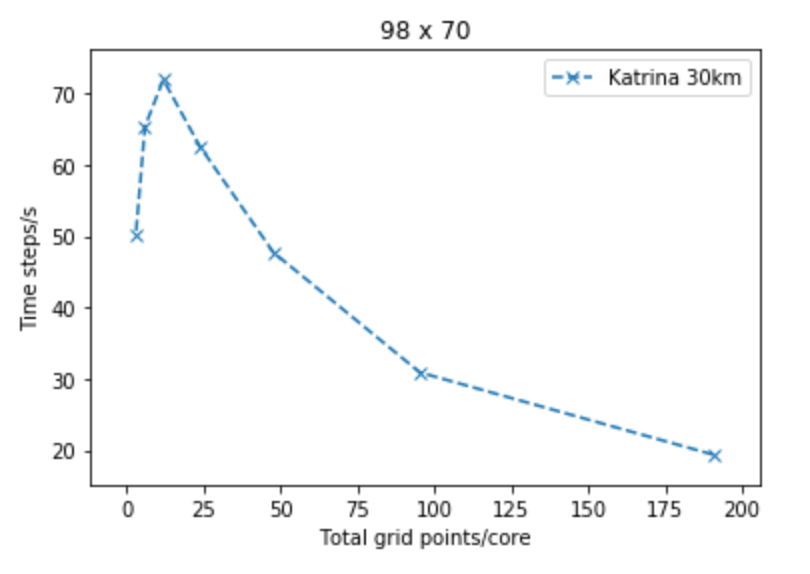
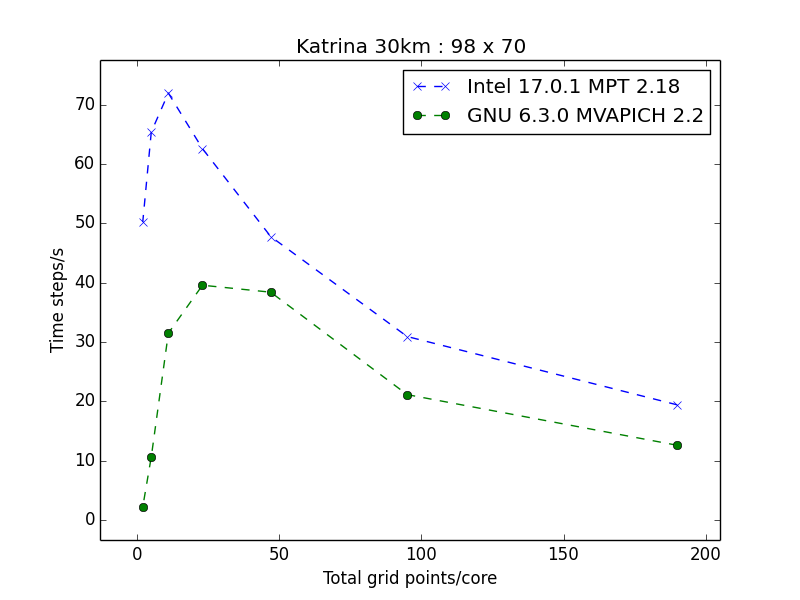
updated katrina results

diff --git a/results/graphs.py b/results/graphs.py
@@ -2,41 +2,59 @@ from matplotlib import pyplot as plt
 
 
 avg_sec_30_intel = [0.0515935, 0.0323609,0.020941,0.0159831,0.0139029,0.0152944,0.0199186]
-ncpus_30_intel = [ 36, 72, 144, 288, 576, 1152,2304 ]
+ncpus_30_intel = [ 36, 72, 144, 288, 576, 1152, 2304 ]
 
-points_intel=98*70
+avg_sec_1_gnu = [ 1.11442,0.0622363,0.143558,0.0781376,0.2634571]
+ncpus_1_gnu = [  72, 144, 576, 1152,2304 ]
+
+avg_sec_1_intel = [1.43894, 0.366497,0.155412,0.0926461,0.0501186]
+ncpus_1_intel = [  36, 144, 288, 576, 1152 ]
 
 avg_sec_30_gnu = [0.0795511,0.0473708,0.0260591,0.0252874,0.0317881,0.0941324,0.457513]
 ncpus_30_gnu   = [ 36, 72, 144, 288, 576, 1152,2304 ]
-points_gnu=98*70
+
+points_30=98*70
+points_1=512*512
 
 avg_step_30_intel = [1/k for k in avg_sec_30_intel]
 avg_step_30_gnu = [1/k for k in avg_sec_30_gnu]
-
-x_30_intel = []
-x_30_gnu=[]
-
-for i,k in enumerate(ncpus_30_intel):
-    x_30_intel.append(points_intel/k)
-for i,k in enumerate(ncpus_30_gnu):
-    x_30_gnu.append(points_gnu/k)
-
-plt.margins(0.08)
-plt.ylabel('Time steps/s')
-plt.xlabel('Total grid points/core')
-plt.title('Katrina 30km : 98 x 70')
-plt.plot(x_30_intel,avg_step_30_intel,'--x',label='Intel MPT')
-plt.plot(x_30_gnu,avg_step_30_gnu,'--o',label='GNU MVAPICH')
-plt.legend(loc='best')
-plt.savefig('katrina30km_cmp.png')
+avg_step_1_gnu = [1/k for k in avg_sec_1_gnu]
+avg_step_1_intel = [1/k for k in avg_sec_1_intel]
 
 
-plt.yscale('log')
-plt.xscale('log')
-plt.ylabel('Time steps/s')
-plt.xlabel('Total grid points/core')
-plt.title('Katrina 30km : 98 x 70')
-plt.plot(x_30_intel,avg_step_30_intel,'--x',label='Intel MPT')
-plt.plot(x_30_gnu,avg_step_30_gnu,'--o',label='GNU MVAPICH')
-plt.legend(loc='best')
-plt.savefig('katrina30km_cmp_log.png')
+def ppc(cpus,points):
+    arr = []
+    for i,k in enumerate(cpus):
+        arr.append(points/k)
+    return arr
+
+x_30_gnu = ppc(ncpus_30_gnu,points_30)
+x_30_intel = ppc(ncpus_30_intel,points_30)
+x_1_gnu = ppc(ncpus_1_gnu,points_1)
+x_1_intel = ppc(ncpus_1_intel,points_1)
+
+def plot(title,x,y,labels,savename):
+    plt.margins(0.08)
+    plt.ylabel('Time steps/s')
+    plt.xlabel('Total grid points/core')
+    plt.title(title)
+    plt.plot(x[0],y[0],'--x',label=labels[0])
+    plt.plot(x[1],y[1],'--o',label=labels[1])
+    plt.legend(loc='best')
+    plt.savefig(savename+'.png')
+   
+    plt.gcf().clear()
+    plt.yscale('log')
+    plt.xscale('log')
+    plt.ylabel('Time steps/s')
+    plt.xlabel('Total grid points/core')
+    plt.title(title)
+    plt.plot(x[0],y[0],'--x',label=labels[0])
+    plt.plot(x[1],y[1],'--o',label=labels[1])
+    plt.legend(loc='lower right')
+    plt.savefig(savename+'_log.png')
+    plt.gcf().clear()
+
+
+plot('Katrina 30km : 98 x 70',[x_30_intel,x_30_gnu],[avg_step_30_intel,avg_step_30_gnu],['Intel 17.0.1 MPT 2.18','GNU 6.3.0 MVAPICH 2.2'],'katrina30km')
+plot('Katrina 1km : 512 x 512',[x_1_intel,x_1_gnu],[avg_step_1_intel,avg_step_1_gnu],['Intel 17.0.1 MPT 2.18','GNU 6.3.0 MVAPICH 2.2'],'katrina1km')

diff --git a/results/README.md b/results/README.md
@@ -1,17 +1,16 @@
-## Katrina 30km
-![30km](https://github.com/DixitPatel/WRF_Simulation/blob/master/results/katrina30km_cmp.png)
-![30km](https://github.com/DixitPatel/WRF_Simulation/blob/master/results/katrina30km_cmp_log.png)
+
+## Katrina 1km : Intel 17.0.1+MPT2.18 and GNU 6.3.0+MVAPICH 2.2
+
+![1km](https://github.com/DixitPatel/WRF_Simulation/blob/master/results/katrina1km.png)
+![1km-log](https://github.com/DixitPatel/WRF_Simulation/blob/master/results/katrina1km_log.png)
 
 
-## Katrina 1km : Intel+MPT2.18
 
-![kat](https://github.com/DixitPatel/WRF_Simulation/blob/master/results/katrina1km.png)
-![kat-log](https://github.com/DixitPatel/WRF_Simulation/blob/master/results/katrina1km_log.png)
-
-## Katrina 30 km : Intel+MPT2.18
-
-
+## Katrina 30km : Intel+MPT2.18 and GNU 6.3.0+MVAPICH 2.2
 ![30km](https://github.com/DixitPatel/WRF_Simulation/blob/master/results/katrina30km.png)
-![30km](https://github.com/DixitPatel/WRF_Simulation/blob/master/results/katrina30km_log.png)
+![30km-log](https://github.com/DixitPatel/WRF_Simulation/blob/master/results/katrina30km_log.png)
+
+
+
 
 
